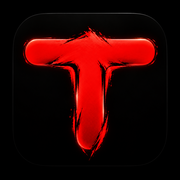
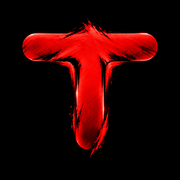
fix: 앱 로고를 라운드 타일 여백 없는 풀블리드 버전으로 교체 (#719)
직전 커밋(#718)에서 쓴 로고 소스는 둥근 사각형 타일이 이미지 안에
그려져 있어서, iOS가 아이콘에 자기 라운드 코너 마스크를 한 번 더
씌우면 둥근 사각형 안에 또 둥근 사각형이 작게 들어있는 것처럼
보이는 문제가 있었음. 타일 테두리 없이 T 글자만 꽉 채운 풀블리드
버전으로 교체 — 아이콘 3종 + 스플래시 10종 전부 다시 생성.

Claude-Session: https://claude.ai/code/session_01TNoGCWRQtXcfdnQwZ6HvCX

Changed region(s): [[0.1111, 0.1111, 0.8889, 0.8889], [0.2222, 0.0556, 0.8056, 0.0833], [0.8056, 0.0833, 0.8611, 0.1111]]

diff --git a/sw.js b/sw.js
@@ -1,4 +1,4 @@
-const CACHE = "mf-v25"; // 🔥 앱 로고를 새 디자인(검정 라운드 타일 + 빨간 붓터치 T)으로 교체 — 아이콘/스플래시 전부 재생성해서 캐시 이름을 다시 올려 새로 받아오게 함
+const CACHE = "mf-v26"; // 🔥 로고 소스를 라운드 타일 바깥 여백 없는 풀블리드 버전으로 교체(아이콘은 OS가 알아서 둥글려주므로 이중 둥근 테두리 방지) — 아이콘/스플래시 전부 재생성해서 캐시 이름을 다시 올려 새로 받아오게 함
 const ASSETS = [
   "/",
   "/index.html",

diff --git a/index.html b/index.html
@@ -11303,7 +11303,7 @@ const settingsHeaderName = document.getElementById("settingsHeaderName");
 const settingsHeaderSub = document.getElementById("settingsHeaderSub");
 
 /* ✅ 앱 버전 정의 — 의미 있는 수정/배포마다 올림(설정 화면에서 "최신 버전 받았는지" 확인용) */
-const APP_VERSION = "0.9.255";
+const APP_VERSION = "0.9.256";
 const appVersionDisplay = document.getElementById("appVersionDisplay");
 if (appVersionDisplay) {
   appVersionDisplay.textContent = APP_VERSION;
